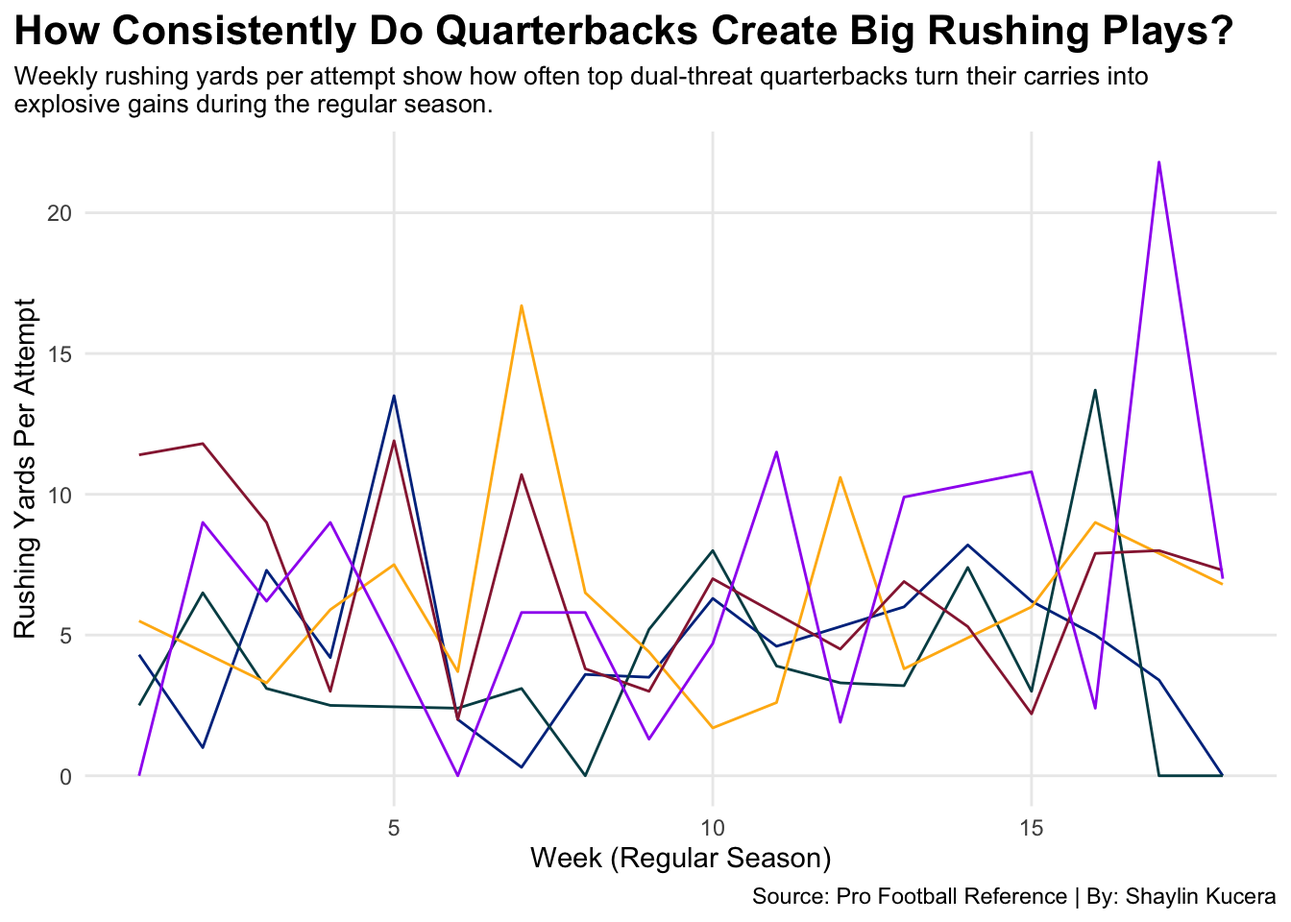
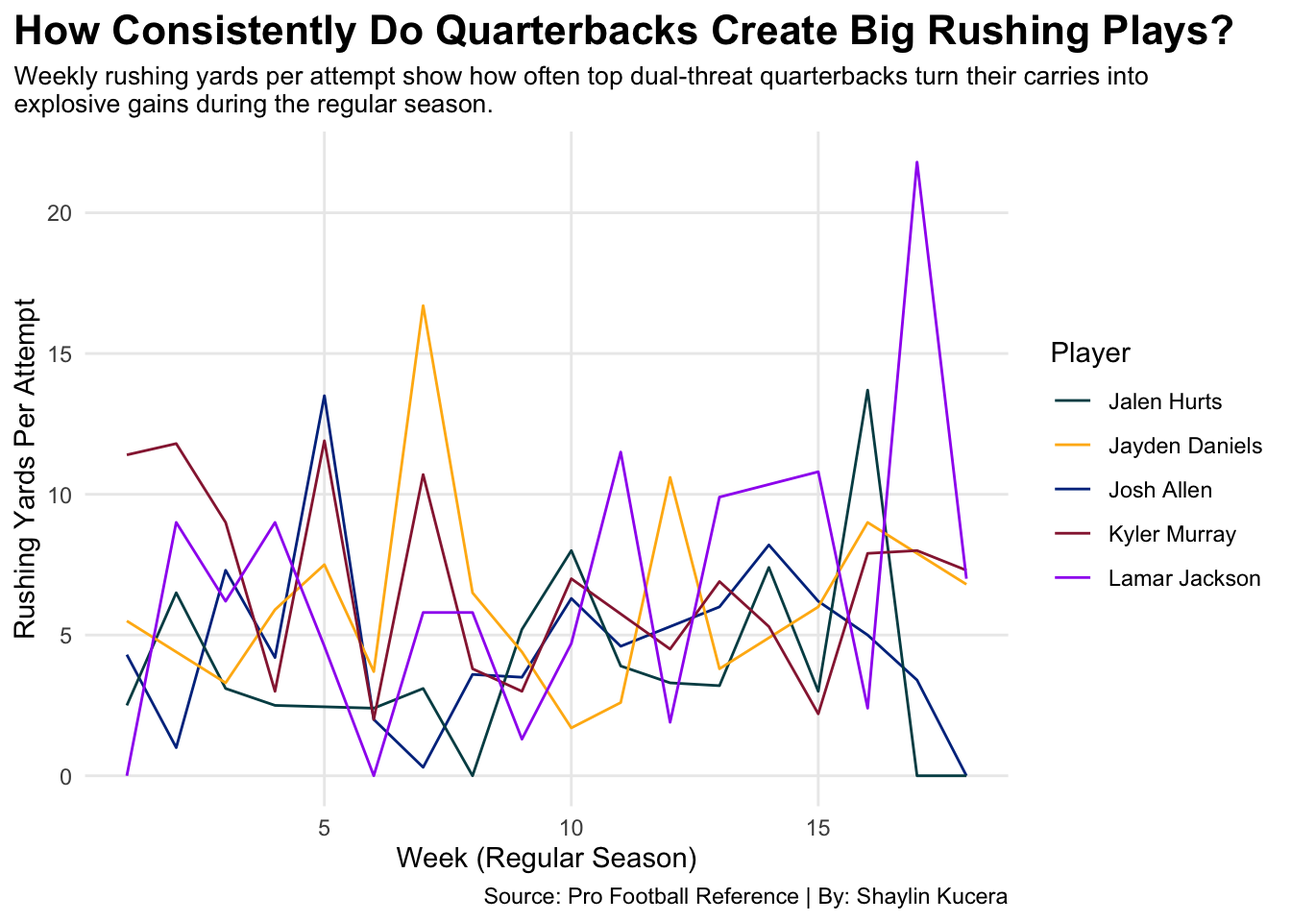
FinallyDone!!!

diff --git a/posts/quarterback-running/index.html b/posts/quarterback-running/index.html
@@ -195,8 +195,8 @@ pre > code.sourceCode > span > a:first-child::before { text-decoration: underlin
 
 
 
-<p>The quarterback position in the NFL has changed a lot over the past decade. It used to be all about pocket passers who stayed planted behind the line and made their reads without ever moving much. But now, more teams are relying on quarterbacks who can take off and run when the play breaks down, or even on purpose. Players like Lamar Jackson, Jalen Hurts, and Josh Allen have shown how dangerous a mobile quarterback can be, turning broken plays into first downs and adding another layer defenses have to worry about.</p>
-<p>But that leads to a bigger question: Does being able to run actually make a quarterback better? Or is it just something that looks exciting on Sundays but doesn’t translate to more scoring or more wins? The first thing that stands out is the clear gap between the NFL’s top quarterbacks and everyone else. Lamar Jackson and Jayden Daniels finished far ahead of the pack, showing how much their teams rely on their legs. Behind them, players like Kyler Murray and Josh Allen use mobility more situationally but still put strong rushing numbers. Meanwhile, more traditional passers like Mahomes and Herbert are much lower on the list. Overall, you can see how running may impact the offense on the ground and have valuable the extra rushing threat can be.</p>
+<p>The quarterback role in the NFL has shifted a ton over the past decade. It’s not just about classic pocket passers anymore. Teams are leaning into quarterbacks who can actually move, guys who extend plays, escape pressure, and pick up yards when everything breaks down. Players like Lamar Jackson, Jalen Hurts, and Josh Allen have basically changed what people expect from the position. Defenses can’t just worry about the throw anymore; they have to account for the run game coming straight from the quarterback.</p>
+<p>The shift brings up a pretty big question: Does running actually make a quarterback better, or is it just something that looks cool on Sundays? When you look at today’s top quarterbacks, the difference in how much they rely on their legs is obvious. Some use rushing as a huge part of their game, while others only run when they absolutely have to. Then you’ve got the more traditional passers who barely take off at all. Seeing those differences makes it clear that mobility can change how an offense works. Whether it’s turning broken plays into first downs or just creating more things for a defense to worry about, the ability to run definitely adds something extra to the position.</p>
 <div class="cell">
 <details class="code-fold">
 <summary>Code</summary>
@@ -271,7 +271,8 @@ pre > code.sourceCode > span > a:first-child::before { text-decoration: underlin
 </div>
 </div>
 <p>Running quarterbacks change everything about how an offense works. When a QB can take off and actually be a threat on the ground, defenses have to account for way more than just the passing game. It opens up space, forces linebackers to hesitate, and turns broken plays into big gains.</p>
-<p>Over the last few seasons, we’ve seen more quarterbacks lean into that dual-threat role, not just scrambling, but being designed runners who can pick up first downs and finish drives. And the guys who run the most aren’t just padding stats. They’re creating real scoring opportunities and keeping defenses constantly off balance. Looking at the top rushing quarterbacks in the league, it’s clear that mobility isn’t just a bonus anymore; it’s becoming a real part of what makes an offense dangerous.</p>
+<p>Over the last few seasons, we’ve seen more quarterbacks lean into that dual-threat role, not just scrambling, but being designed runners who can pick up first downs and finish drives. And the guys who run the most aren’t just padding stats. They’re creating real scoring opportunities and keeping defenses constantly off balance. Looking at the top rushing quarterbacks in the league, it’s clear that mobility isn’t just a bonus anymore; it’s becoming a real part of what makes an offense dangerous.<br>
+</p>
 <div class="cell">
 <details class="code-fold">
 <summary>Code</summary>
@@ -284,27 +285,28 @@ pre > code.sourceCode > span > a:first-child::before { text-decoration: underlin
 <span id="cb2-7"><a href="#cb2-7" aria-hidden="true" tabindex="-1"></a>  )</span>
 <span id="cb2-8"><a href="#cb2-8" aria-hidden="true" tabindex="-1"></a></span>
 <span id="cb2-9"><a href="#cb2-9" aria-hidden="true" tabindex="-1"></a><span class="fu">ggplot</span>() <span class="sc">+</span> </span>
-<span id="cb2-10"><a href="#cb2-10" aria-hidden="true" tabindex="-1"></a>  <span class="fu">geom_line</span>(<span class="at">data=</span>JoshAllen, <span class="fu">aes</span>(<span class="at">x=</span>Week, <span class="at">y=</span><span class="st">`</span><span class="at">Y/A</span><span class="st">`</span>), <span class="at">color=</span><span class="st">"#00338D"</span>) <span class="sc">+</span></span>
-<span id="cb2-11"><a href="#cb2-11" aria-hidden="true" tabindex="-1"></a>  <span class="fu">geom_line</span>(<span class="at">data=</span>JalenHurts, <span class="fu">aes</span>(<span class="at">x=</span>Week, <span class="at">y=</span><span class="st">`</span><span class="at">Y/A</span><span class="st">`</span>), <span class="at">color=</span><span class="st">"#004C54"</span>) <span class="sc">+</span></span>
-<span id="cb2-12"><a href="#cb2-12" aria-hidden="true" tabindex="-1"></a>  <span class="fu">geom_line</span>(<span class="at">data=</span>JaydenDaniels, <span class="fu">aes</span>(<span class="at">x=</span>Week, <span class="at">y=</span><span class="st">`</span><span class="at">Y/A</span><span class="st">`</span>), <span class="at">color=</span><span class="st">"#FFB612"</span>) <span class="sc">+</span></span>
-<span id="cb2-13"><a href="#cb2-13" aria-hidden="true" tabindex="-1"></a>  <span class="fu">geom_line</span>(<span class="at">data=</span>KylerMurray, <span class="fu">aes</span>(<span class="at">x=</span>Week, <span class="at">y=</span><span class="st">`</span><span class="at">Y/A</span><span class="st">`</span>), <span class="at">color=</span><span class="st">"#97233F"</span>) <span class="sc">+</span></span>
-<span id="cb2-14"><a href="#cb2-14" aria-hidden="true" tabindex="-1"></a>  <span class="fu">geom_line</span>(<span class="at">data=</span>LamarJackson, <span class="fu">aes</span>(<span class="at">x=</span>Week, <span class="at">y=</span><span class="st">`</span><span class="at">Y/A</span><span class="st">`</span>), <span class="at">color=</span><span class="st">"purple"</span>) <span class="sc">+</span></span>
+<span id="cb2-10"><a href="#cb2-10" aria-hidden="true" tabindex="-1"></a>  <span class="fu">geom_line</span>(<span class="at">data=</span>JoshAllen, <span class="fu">aes</span>(<span class="at">x=</span>Week, <span class="at">y=</span><span class="st">`</span><span class="at">Y/A</span><span class="st">`</span>, <span class="at">color=</span>Player)) <span class="sc">+</span></span>
+<span id="cb2-11"><a href="#cb2-11" aria-hidden="true" tabindex="-1"></a>  <span class="fu">geom_line</span>(<span class="at">data=</span>JalenHurts, <span class="fu">aes</span>(<span class="at">x=</span>Week, <span class="at">y=</span><span class="st">`</span><span class="at">Y/A</span><span class="st">`</span>, <span class="at">color=</span>Player)) <span class="sc">+</span></span>
+<span id="cb2-12"><a href="#cb2-12" aria-hidden="true" tabindex="-1"></a>  <span class="fu">geom_line</span>(<span class="at">data=</span>JaydenDaniels, <span class="fu">aes</span>(<span class="at">x=</span>Week, <span class="at">y=</span><span class="st">`</span><span class="at">Y/A</span><span class="st">`</span>, <span class="at">color=</span>Player)) <span class="sc">+</span></span>
+<span id="cb2-13"><a href="#cb2-13" aria-hidden="true" tabindex="-1"></a>  <span class="fu">geom_line</span>(<span class="at">data=</span>KylerMurray, <span class="fu">aes</span>(<span class="at">x=</span>Week, <span class="at">y=</span><span class="st">`</span><span class="at">Y/A</span><span class="st">`</span>, <span class="at">color=</span>Player)) <span class="sc">+</span></span>
+<span id="cb2-14"><a href="#cb2-14" aria-hidden="true" tabindex="-1"></a>  <span class="fu">geom_line</span>(<span class="at">data=</span>LamarJackson, <span class="fu">aes</span>(<span class="at">x=</span>Week, <span class="at">y=</span><span class="st">`</span><span class="at">Y/A</span><span class="st">`</span>, <span class="at">color=</span>Player)) <span class="sc">+</span></span>
 <span id="cb2-15"><a href="#cb2-15" aria-hidden="true" tabindex="-1"></a>  <span class="fu">scale_y_continuous</span>(<span class="at">limits =</span> <span class="fu">c</span>(<span class="fl">0.0</span>,<span class="fl">21.8</span>)) <span class="sc">+</span></span>
-<span id="cb2-16"><a href="#cb2-16" aria-hidden="true" tabindex="-1"></a>  <span class="fu">theme_minimal</span>() <span class="sc">+</span></span>
-<span id="cb2-17"><a href="#cb2-17" aria-hidden="true" tabindex="-1"></a>  <span class="fu">labs</span>(</span>
-<span id="cb2-18"><a href="#cb2-18" aria-hidden="true" tabindex="-1"></a>    <span class="at">title=</span><span class="st">"How Consistently Do Quarterbacks Create Big Rushing Plays?"</span>,</span>
-<span id="cb2-19"><a href="#cb2-19" aria-hidden="true" tabindex="-1"></a>    <span class="at">subtitle=</span><span class="st">"Weekly rushing yards per attempt show how often top dual-threat quarterbacks turn their carries into </span><span class="sc">\n</span><span class="st">explosive gains during the regular season."</span>,</span>
-<span id="cb2-20"><a href="#cb2-20" aria-hidden="true" tabindex="-1"></a>    <span class="at">caption=</span><span class="st">"Source: Pro Football Reference | By: Shaylin Kucera"</span>,</span>
-<span id="cb2-21"><a href="#cb2-21" aria-hidden="true" tabindex="-1"></a>    <span class="at">x=</span><span class="st">"Week (Regular Season)"</span>,</span>
-<span id="cb2-22"><a href="#cb2-22" aria-hidden="true" tabindex="-1"></a>    <span class="at">y=</span><span class="st">"Rushing Yards Per Attempt"</span></span>
-<span id="cb2-23"><a href="#cb2-23" aria-hidden="true" tabindex="-1"></a>  ) <span class="sc">+</span></span>
-<span id="cb2-24"><a href="#cb2-24" aria-hidden="true" tabindex="-1"></a>  <span class="fu">theme</span>(</span>
-<span id="cb2-25"><a href="#cb2-25" aria-hidden="true" tabindex="-1"></a>    <span class="at">plot.title =</span> <span class="fu">element_text</span>(<span class="at">size =</span> <span class="dv">16</span>, <span class="at">face =</span> <span class="st">"bold"</span>),</span>
-<span id="cb2-26"><a href="#cb2-26" aria-hidden="true" tabindex="-1"></a>    <span class="at">axis.title =</span> <span class="fu">element_text</span>(<span class="at">size=</span><span class="dv">11</span>),</span>
-<span id="cb2-27"><a href="#cb2-27" aria-hidden="true" tabindex="-1"></a>    <span class="at">plot.subtitle =</span> <span class="fu">element_text</span>(<span class="at">size=</span><span class="dv">10</span>),</span>
-<span id="cb2-28"><a href="#cb2-28" aria-hidden="true" tabindex="-1"></a>    <span class="at">panel.grid.minor =</span> <span class="fu">element_blank</span>(),</span>
-<span id="cb2-29"><a href="#cb2-29" aria-hidden="true" tabindex="-1"></a>    <span class="at">plot.title.position =</span> <span class="st">"plot"</span></span>
-<span id="cb2-30"><a href="#cb2-30" aria-hidden="true" tabindex="-1"></a>    )</span></code></pre></div><button title="Copy to Clipboard" class="code-copy-button"><i class="bi"></i></button></div>
+<span id="cb2-16"><a href="#cb2-16" aria-hidden="true" tabindex="-1"></a>  <span class="fu">scale_color_manual</span>(<span class="at">values=</span><span class="fu">c</span>(<span class="st">"#004C54"</span>, <span class="st">"#FFB612"</span>, <span class="st">"#00338D"</span>,<span class="st">"#97233F"</span>,<span class="st">"purple"</span>)) <span class="sc">+</span></span>
+<span id="cb2-17"><a href="#cb2-17" aria-hidden="true" tabindex="-1"></a>  <span class="fu">theme_minimal</span>() <span class="sc">+</span></span>
+<span id="cb2-18"><a href="#cb2-18" aria-hidden="true" tabindex="-1"></a>  <span class="fu">labs</span>(</span>
+<span id="cb2-19"><a href="#cb2-19" aria-hidden="true" tabindex="-1"></a>    <span class="at">title=</span><span class="st">"How Consistently Do Quarterbacks Create Big Rushing Plays?"</span>,</span>
+<span id="cb2-20"><a href="#cb2-20" aria-hidden="true" tabindex="-1"></a>    <span class="at">subtitle=</span><span class="st">"Weekly rushing yards per attempt show how often top dual-threat quarterbacks turn their carries into </span><span class="sc">\n</span><span class="st">explosive gains during the regular season."</span>,</span>
+<span id="cb2-21"><a href="#cb2-21" aria-hidden="true" tabindex="-1"></a>    <span class="at">caption=</span><span class="st">"Source: Pro Football Reference | By: Shaylin Kucera"</span>,</span>
+<span id="cb2-22"><a href="#cb2-22" aria-hidden="true" tabindex="-1"></a>    <span class="at">x=</span><span class="st">"Week (Regular Season)"</span>,</span>
+<span id="cb2-23"><a href="#cb2-23" aria-hidden="true" tabindex="-1"></a>    <span class="at">y=</span><span class="st">"Rushing Yards Per Attempt"</span></span>
+<span id="cb2-24"><a href="#cb2-24" aria-hidden="true" tabindex="-1"></a>  ) <span class="sc">+</span></span>
+<span id="cb2-25"><a href="#cb2-25" aria-hidden="true" tabindex="-1"></a>  <span class="fu">theme</span>(</span>
+<span id="cb2-26"><a href="#cb2-26" aria-hidden="true" tabindex="-1"></a>    <span class="at">plot.title =</span> <span class="fu">element_text</span>(<span class="at">size =</span> <span class="dv">16</span>, <span class="at">face =</span> <span class="st">"bold"</span>),</span>
+<span id="cb2-27"><a href="#cb2-27" aria-hidden="true" tabindex="-1"></a>    <span class="at">axis.title =</span> <span class="fu">element_text</span>(<span class="at">size=</span><span class="dv">11</span>),</span>
+<span id="cb2-28"><a href="#cb2-28" aria-hidden="true" tabindex="-1"></a>    <span class="at">plot.subtitle =</span> <span class="fu">element_text</span>(<span class="at">size=</span><span class="dv">10</span>),</span>
+<span id="cb2-29"><a href="#cb2-29" aria-hidden="true" tabindex="-1"></a>    <span class="at">panel.grid.minor =</span> <span class="fu">element_blank</span>(),</span>
+<span id="cb2-30"><a href="#cb2-30" aria-hidden="true" tabindex="-1"></a>    <span class="at">plot.title.position =</span> <span class="st">"plot"</span></span>
+<span id="cb2-31"><a href="#cb2-31" aria-hidden="true" tabindex="-1"></a>    )</span></code></pre></div><button title="Copy to Clipboard" class="code-copy-button"><i class="bi"></i></button></div>
 </details>
 <div class="cell-output-display">
 <div>
@@ -324,35 +326,37 @@ pre > code.sourceCode > span > a:first-child::before { text-decoration: underlin
 <span id="cb3-3"><a href="#cb3-3" aria-hidden="true" tabindex="-1"></a>    G <span class="sc">&gt;=</span> <span class="dv">15</span></span>
 <span id="cb3-4"><a href="#cb3-4" aria-hidden="true" tabindex="-1"></a>  )</span>
 <span id="cb3-5"><a href="#cb3-5" aria-hidden="true" tabindex="-1"></a></span>
-<span id="cb3-6"><a href="#cb3-6" aria-hidden="true" tabindex="-1"></a><span class="fu">ggplot</span>() <span class="sc">+</span></span>
-<span id="cb3-7"><a href="#cb3-7" aria-hidden="true" tabindex="-1"></a>  <span class="fu">geom_point</span>(<span class="at">data=</span>qb24rush, <span class="fu">aes</span>(<span class="at">x=</span><span class="st">`</span><span class="at">Y/G</span><span class="st">`</span>, <span class="at">y=</span><span class="st">`</span><span class="at">A/G</span><span class="st">`</span>)) <span class="sc">+</span></span>
-<span id="cb3-8"><a href="#cb3-8" aria-hidden="true" tabindex="-1"></a>  <span class="fu">geom_point</span>(<span class="at">data =</span> <span class="fu">filter</span>(qb24rush, Player <span class="sc">==</span> <span class="st">"Lamar Jackson"</span>), </span>
-<span id="cb3-9"><a href="#cb3-9" aria-hidden="true" tabindex="-1"></a>                    <span class="fu">aes</span>(<span class="at">x =</span> <span class="st">`</span><span class="at">Y/G</span><span class="st">`</span>, <span class="at">y =</span> <span class="st">`</span><span class="at">A/G</span><span class="st">`</span>),</span>
-<span id="cb3-10"><a href="#cb3-10" aria-hidden="true" tabindex="-1"></a>                    <span class="at">color=</span><span class="st">"#241773"</span>, <span class="at">size=</span><span class="dv">5</span>) <span class="sc">+</span></span>
-<span id="cb3-11"><a href="#cb3-11" aria-hidden="true" tabindex="-1"></a>  <span class="fu">geom_point</span>(<span class="at">data =</span> <span class="fu">filter</span>(qb24rush, Player <span class="sc">==</span> <span class="st">"Jalen Hurts"</span>), </span>
-<span id="cb3-12"><a href="#cb3-12" aria-hidden="true" tabindex="-1"></a>                    <span class="fu">aes</span>(<span class="at">x =</span> <span class="st">`</span><span class="at">Y/G</span><span class="st">`</span>, <span class="at">y =</span> <span class="st">`</span><span class="at">A/G</span><span class="st">`</span>),</span>
-<span id="cb3-13"><a href="#cb3-13" aria-hidden="true" tabindex="-1"></a>                    <span class="at">color=</span><span class="st">"#004C54"</span>, <span class="at">size=</span><span class="dv">5</span>) <span class="sc">+</span></span>
-<span id="cb3-14"><a href="#cb3-14" aria-hidden="true" tabindex="-1"></a>  <span class="fu">geom_point</span>(<span class="at">data =</span> <span class="fu">filter</span>(qb24rush, Player <span class="sc">==</span> <span class="st">"Jayden Daniels"</span>), </span>
-<span id="cb3-15"><a href="#cb3-15" aria-hidden="true" tabindex="-1"></a>                    <span class="fu">aes</span>(<span class="at">x =</span> <span class="st">`</span><span class="at">Y/G</span><span class="st">`</span>, <span class="at">y =</span> <span class="st">`</span><span class="at">A/G</span><span class="st">`</span>),</span>
-<span id="cb3-16"><a href="#cb3-16" aria-hidden="true" tabindex="-1"></a>                    <span class="at">color=</span><span class="st">"#5A1414"</span>, <span class="at">size=</span><span class="dv">5</span>) <span class="sc">+</span></span>
-<span id="cb3-17"><a href="#cb3-17" aria-hidden="true" tabindex="-1"></a>  <span class="fu">geom_point</span>(<span class="at">data =</span> <span class="fu">filter</span>(qb24rush, Player <span class="sc">==</span> <span class="st">"Anthony Richardson"</span>), </span>
-<span id="cb3-18"><a href="#cb3-18" aria-hidden="true" tabindex="-1"></a>                    <span class="fu">aes</span>(<span class="at">x =</span> <span class="st">`</span><span class="at">Y/G</span><span class="st">`</span>, <span class="at">y =</span> <span class="st">`</span><span class="at">A/G</span><span class="st">`</span>),</span>
-<span id="cb3-19"><a href="#cb3-19" aria-hidden="true" tabindex="-1"></a>                    <span class="at">color=</span><span class="st">"#002C5F"</span>, <span class="at">size=</span><span class="dv">5</span>) <span class="sc">+</span></span>
-<span id="cb3-20"><a href="#cb3-20" aria-hidden="true" tabindex="-1"></a>  <span class="fu">geom_smooth</span>(<span class="at">data=</span>qb24rush, <span class="fu">aes</span>(<span class="at">x=</span><span class="st">`</span><span class="at">Y/G</span><span class="st">`</span>, <span class="at">y=</span><span class="st">`</span><span class="at">A/G</span><span class="st">`</span>), <span class="at">method=</span><span class="st">"lm"</span>) <span class="sc">+</span></span>
-<span id="cb3-21"><a href="#cb3-21" aria-hidden="true" tabindex="-1"></a>  <span class="fu">theme_minimal</span>() <span class="sc">+</span></span>
-<span id="cb3-22"><a href="#cb3-22" aria-hidden="true" tabindex="-1"></a>    <span class="fu">labs</span>(</span>
-<span id="cb3-23"><a href="#cb3-23" aria-hidden="true" tabindex="-1"></a>    <span class="at">title =</span> <span class="st">"Do Quarterbacks Who Run More... Actually Run More?"</span>,</span>
-<span id="cb3-24"><a href="#cb3-24" aria-hidden="true" tabindex="-1"></a>    <span class="at">subtitle=</span><span class="st">"A clear trend shows that quarterbacks who rack up rushing yards usually have more attempts per game. </span><span class="sc">\n</span><span class="st">Revealing which guys rely on their legs and which ones only run when they have to."</span>,</span>
-<span id="cb3-25"><a href="#cb3-25" aria-hidden="true" tabindex="-1"></a>    <span class="at">caption=</span><span class="st">"Source: Pro Football Reference | By: Shaylin Kucera"</span>,</span>
-<span id="cb3-26"><a href="#cb3-26" aria-hidden="true" tabindex="-1"></a>    <span class="at">x=</span> <span class="st">"Rushing Yards Per Game"</span>, </span>
-<span id="cb3-27"><a href="#cb3-27" aria-hidden="true" tabindex="-1"></a>    <span class="at">y=</span> <span class="st">"Attempts Per Game"</span>) <span class="sc">+</span></span>
-<span id="cb3-28"><a href="#cb3-28" aria-hidden="true" tabindex="-1"></a>  <span class="fu">theme</span>(</span>
-<span id="cb3-29"><a href="#cb3-29" aria-hidden="true" tabindex="-1"></a>    <span class="at">plot.title =</span> <span class="fu">element_text</span>(<span class="at">size =</span> <span class="dv">16</span>, <span class="at">face =</span> <span class="st">"bold"</span>),</span>
-<span id="cb3-30"><a href="#cb3-30" aria-hidden="true" tabindex="-1"></a>    <span class="at">axis.title =</span> <span class="fu">element_text</span>(<span class="at">size=</span><span class="dv">11</span>),</span>
-<span id="cb3-31"><a href="#cb3-31" aria-hidden="true" tabindex="-1"></a>    <span class="at">plot.subtitle =</span> <span class="fu">element_text</span>(<span class="at">size=</span><span class="dv">10</span>),</span>
-<span id="cb3-32"><a href="#cb3-32" aria-hidden="true" tabindex="-1"></a>    <span class="at">panel.grid.minor =</span> <span class="fu">element_blank</span>(),</span>
-<span id="cb3-33"><a href="#cb3-33" aria-hidden="true" tabindex="-1"></a>    <span class="at">plot.title.position =</span> <span class="st">"plot"</span></span>
-<span id="cb3-34"><a href="#cb3-34" aria-hidden="true" tabindex="-1"></a>    )</span></code></pre></div><button title="Copy to Clipboard" class="code-copy-button"><i class="bi"></i></button></div>
+<span id="cb3-6"><a href="#cb3-6" aria-hidden="true" tabindex="-1"></a>rushlabels <span class="ot">&lt;-</span> qb24rush <span class="sc">|&gt;</span> <span class="fu">filter</span>(Player <span class="sc">==</span> <span class="st">"Lamar Jackson"</span> <span class="sc">|</span> Player <span class="sc">==</span> <span class="st">"Jalen Hurts"</span> <span class="sc">|</span> Player <span class="sc">==</span> <span class="st">"Jayden Daniels"</span> <span class="sc">|</span> Player <span class="sc">==</span> <span class="st">"Anthony Richardson"</span>)</span>
+<span id="cb3-7"><a href="#cb3-7" aria-hidden="true" tabindex="-1"></a></span>
+<span id="cb3-8"><a href="#cb3-8" aria-hidden="true" tabindex="-1"></a><span class="fu">ggplot</span>() <span class="sc">+</span></span>
+<span id="cb3-9"><a href="#cb3-9" aria-hidden="true" tabindex="-1"></a>  <span class="fu">geom_point</span>(<span class="at">data=</span>qb24rush, <span class="fu">aes</span>(<span class="at">x=</span><span class="st">`</span><span class="at">Y/G</span><span class="st">`</span>, <span class="at">y=</span><span class="st">`</span><span class="at">A/G</span><span class="st">`</span>)) <span class="sc">+</span></span>
+<span id="cb3-10"><a href="#cb3-10" aria-hidden="true" tabindex="-1"></a>  <span class="fu">geom_point</span>(<span class="at">data =</span> <span class="fu">filter</span>(qb24rush, Player <span class="sc">==</span> <span class="st">"Lamar Jackson"</span>), </span>
+<span id="cb3-11"><a href="#cb3-11" aria-hidden="true" tabindex="-1"></a>                    <span class="fu">aes</span>(<span class="at">x =</span> <span class="st">`</span><span class="at">Y/G</span><span class="st">`</span>, <span class="at">y =</span> <span class="st">`</span><span class="at">A/G</span><span class="st">`</span>),</span>
+<span id="cb3-12"><a href="#cb3-12" aria-hidden="true" tabindex="-1"></a>                    <span class="at">color=</span><span class="st">"#241773"</span>, <span class="at">size=</span><span class="dv">3</span>) <span class="sc">+</span></span>
+<span id="cb3-13"><a href="#cb3-13" aria-hidden="true" tabindex="-1"></a>  <span class="fu">geom_point</span>(<span class="at">data =</span> <span class="fu">filter</span>(qb24rush, Player <span class="sc">==</span> <span class="st">"Jalen Hurts"</span>), </span>
+<span id="cb3-14"><a href="#cb3-14" aria-hidden="true" tabindex="-1"></a>                    <span class="fu">aes</span>(<span class="at">x =</span> <span class="st">`</span><span class="at">Y/G</span><span class="st">`</span>, <span class="at">y =</span> <span class="st">`</span><span class="at">A/G</span><span class="st">`</span>),</span>
+<span id="cb3-15"><a href="#cb3-15" aria-hidden="true" tabindex="-1"></a>                    <span class="at">color=</span><span class="st">"#004C54"</span>, <span class="at">size=</span><span class="dv">3</span>) <span class="sc">+</span></span>
+<span id="cb3-16"><a href="#cb3-16" aria-hidden="true" tabindex="-1"></a>  <span class="fu">geom_point</span>(<span class="at">data =</span> <span class="fu">filter</span>(qb24rush, Player <span class="sc">==</span> <span class="st">"Jayden Daniels"</span>), </span>
+<span id="cb3-17"><a href="#cb3-17" aria-hidden="true" tabindex="-1"></a>                    <span class="fu">aes</span>(<span class="at">x =</span> <span class="st">`</span><span class="at">Y/G</span><span class="st">`</span>, <span class="at">y =</span> <span class="st">`</span><span class="at">A/G</span><span class="st">`</span>),</span>
+<span id="cb3-18"><a href="#cb3-18" aria-hidden="true" tabindex="-1"></a>                    <span class="at">color=</span><span class="st">"#5A1414"</span>, <span class="at">size=</span><span class="dv">3</span>) <span class="sc">+</span></span>
+<span id="cb3-19"><a href="#cb3-19" aria-hidden="true" tabindex="-1"></a>  <span class="fu">geom_point</span>(<span class="at">data =</span> <span class="fu">filter</span>(qb24rush, Player <span class="sc">==</span> <span class="st">"Anthony Richardson"</span>), </span>
+<span id="cb3-20"><a href="#cb3-20" aria-hidden="true" tabindex="-1"></a>                    <span class="fu">aes</span>(<span class="at">x =</span> <span class="st">`</span><span class="at">Y/G</span><span class="st">`</span>, <span class="at">y =</span> <span class="st">`</span><span class="at">A/G</span><span class="st">`</span>),</span>
+<span id="cb3-21"><a href="#cb3-21" aria-hidden="true" tabindex="-1"></a>                    <span class="at">color=</span><span class="st">"#002C5F"</span>, <span class="at">size=</span><span class="dv">3</span>) <span class="sc">+</span></span>
+<span id="cb3-22"><a href="#cb3-22" aria-hidden="true" tabindex="-1"></a>  <span class="fu">geom_text_repel</span>(<span class="at">data=</span>rushlabels, <span class="fu">aes</span>(<span class="at">x=</span><span class="st">`</span><span class="at">Y/G</span><span class="st">`</span>, <span class="at">y=</span><span class="st">`</span><span class="at">A/G</span><span class="st">`</span>, <span class="at">label=</span>Player)) <span class="sc">+</span></span>
+<span id="cb3-23"><a href="#cb3-23" aria-hidden="true" tabindex="-1"></a>  <span class="fu">theme_minimal</span>() <span class="sc">+</span></span>
+<span id="cb3-24"><a href="#cb3-24" aria-hidden="true" tabindex="-1"></a>    <span class="fu">labs</span>(</span>
+<span id="cb3-25"><a href="#cb3-25" aria-hidden="true" tabindex="-1"></a>    <span class="at">title =</span> <span class="st">"Do Quarterbacks Who Run More... Actually Run More?"</span>,</span>
+<span id="cb3-26"><a href="#cb3-26" aria-hidden="true" tabindex="-1"></a>    <span class="at">subtitle=</span><span class="st">"A clear trend shows that quarterbacks who rack up rushing yards usually have more attempts per game. </span><span class="sc">\n</span><span class="st">Revealing which guys rely on their legs and which ones only run when they have to."</span>,</span>
+<span id="cb3-27"><a href="#cb3-27" aria-hidden="true" tabindex="-1"></a>    <span class="at">caption=</span><span class="st">"Source: Pro Football Reference | By: Shaylin Kucera"</span>,</span>
+<span id="cb3-28"><a href="#cb3-28" aria-hidden="true" tabindex="-1"></a>    <span class="at">x=</span> <span class="st">"Rushing Yards Per Game"</span>, </span>
+<span id="cb3-29"><a href="#cb3-29" aria-hidden="true" tabindex="-1"></a>    <span class="at">y=</span> <span class="st">"Attempts Per Game"</span>) <span class="sc">+</span></span>
+<span id="cb3-30"><a href="#cb3-30" aria-hidden="true" tabindex="-1"></a>  <span class="fu">theme</span>(</span>
+<span id="cb3-31"><a href="#cb3-31" aria-hidden="true" tabindex="-1"></a>    <span class="at">plot.title =</span> <span class="fu">element_text</span>(<span class="at">size =</span> <span class="dv">16</span>, <span class="at">face =</span> <span class="st">"bold"</span>),</span>
+<span id="cb3-32"><a href="#cb3-32" aria-hidden="true" tabindex="-1"></a>    <span class="at">axis.title =</span> <span class="fu">element_text</span>(<span class="at">size=</span><span class="dv">11</span>),</span>
+<span id="cb3-33"><a href="#cb3-33" aria-hidden="true" tabindex="-1"></a>    <span class="at">plot.subtitle =</span> <span class="fu">element_text</span>(<span class="at">size=</span><span class="dv">10</span>),</span>
+<span id="cb3-34"><a href="#cb3-34" aria-hidden="true" tabindex="-1"></a>    <span class="at">panel.grid.minor =</span> <span class="fu">element_blank</span>(),</span>
+<span id="cb3-35"><a href="#cb3-35" aria-hidden="true" tabindex="-1"></a>    <span class="at">plot.title.position =</span> <span class="st">"plot"</span></span>
+<span id="cb3-36"><a href="#cb3-36" aria-hidden="true" tabindex="-1"></a>    )</span></code></pre></div><button title="Copy to Clipboard" class="code-copy-button"><i class="bi"></i></button></div>
 </details>
 <div class="cell-output-display">
 <div>
@@ -382,21 +386,22 @@ pre > code.sourceCode > span > a:first-child::before { text-decoration: underlin
 <span id="cb4-14"><a href="#cb4-14" aria-hidden="true" tabindex="-1"></a></span>
 <span id="cb4-15"><a href="#cb4-15" aria-hidden="true" tabindex="-1"></a><span class="fu">ggplot</span>() <span class="sc">+</span> </span>
 <span id="cb4-16"><a href="#cb4-16" aria-hidden="true" tabindex="-1"></a>  <span class="fu">geom_bar</span>(<span class="at">data=</span>ChartTD, <span class="fu">aes</span>(<span class="at">x=</span>Player, <span class="at">weight=</span>Yards, <span class="at">fill=</span>Type), <span class="at">color=</span><span class="st">"black"</span>) <span class="sc">+</span></span>
-<span id="cb4-17"><a href="#cb4-17" aria-hidden="true" tabindex="-1"></a>  <span class="fu">coord_flip</span>() <span class="sc">+</span></span>
-<span id="cb4-18"><a href="#cb4-18" aria-hidden="true" tabindex="-1"></a>  <span class="fu">theme_minimal</span>() <span class="sc">+</span></span>
-<span id="cb4-19"><a href="#cb4-19" aria-hidden="true" tabindex="-1"></a>  <span class="fu">labs</span>(</span>
-<span id="cb4-20"><a href="#cb4-20" aria-hidden="true" tabindex="-1"></a>    <span class="at">title =</span> <span class="st">"The NFL's Most Dangerous Running QBs"</span>,</span>
-<span id="cb4-21"><a href="#cb4-21" aria-hidden="true" tabindex="-1"></a>    <span class="at">subtitle=</span><span class="st">"These five quarterbacks aren't just scrambling to get the ball somewhere. They're putting massive rushing </span><span class="sc">\n</span><span class="st">attempts and finding the end zone, making defenses pay when they take off with the ball."</span>,</span>
-<span id="cb4-22"><a href="#cb4-22" aria-hidden="true" tabindex="-1"></a>    <span class="at">caption=</span><span class="st">"Source: Pro Football Reference | By: Shaylin Kucera"</span>,</span>
-<span id="cb4-23"><a href="#cb4-23" aria-hidden="true" tabindex="-1"></a>    <span class="at">x=</span> <span class="st">""</span>, </span>
-<span id="cb4-24"><a href="#cb4-24" aria-hidden="true" tabindex="-1"></a>    <span class="at">y=</span> <span class="st">""</span>) <span class="sc">+</span></span>
-<span id="cb4-25"><a href="#cb4-25" aria-hidden="true" tabindex="-1"></a>  <span class="fu">theme</span>(</span>
-<span id="cb4-26"><a href="#cb4-26" aria-hidden="true" tabindex="-1"></a>    <span class="at">plot.title =</span> <span class="fu">element_text</span>(<span class="at">size =</span> <span class="dv">16</span>, <span class="at">face =</span> <span class="st">"bold"</span>),</span>
-<span id="cb4-27"><a href="#cb4-27" aria-hidden="true" tabindex="-1"></a>    <span class="at">axis.title =</span> <span class="fu">element_text</span>(<span class="at">size=</span><span class="dv">11</span>),</span>
-<span id="cb4-28"><a href="#cb4-28" aria-hidden="true" tabindex="-1"></a>    <span class="at">plot.subtitle =</span> <span class="fu">element_text</span>(<span class="at">size=</span><span class="dv">10</span>),</span>
-<span id="cb4-29"><a href="#cb4-29" aria-hidden="true" tabindex="-1"></a>    <span class="at">panel.grid.minor =</span> <span class="fu">element_blank</span>(),</span>
-<span id="cb4-30"><a href="#cb4-30" aria-hidden="true" tabindex="-1"></a>    <span class="at">plot.title.position =</span> <span class="st">"plot"</span></span>
-<span id="cb4-31"><a href="#cb4-31" aria-hidden="true" tabindex="-1"></a>    )</span></code></pre></div><button title="Copy to Clipboard" class="code-copy-button"><i class="bi"></i></button></div>
+<span id="cb4-17"><a href="#cb4-17" aria-hidden="true" tabindex="-1"></a>  <span class="fu">scale_fill_manual</span>(<span class="at">values =</span> <span class="fu">c</span>(<span class="st">"red"</span>,<span class="st">"grey"</span>)) <span class="sc">+</span></span>
+<span id="cb4-18"><a href="#cb4-18" aria-hidden="true" tabindex="-1"></a>  <span class="fu">coord_flip</span>() <span class="sc">+</span></span>
+<span id="cb4-19"><a href="#cb4-19" aria-hidden="true" tabindex="-1"></a>  <span class="fu">theme_minimal</span>() <span class="sc">+</span></span>
+<span id="cb4-20"><a href="#cb4-20" aria-hidden="true" tabindex="-1"></a>  <span class="fu">labs</span>(</span>
+<span id="cb4-21"><a href="#cb4-21" aria-hidden="true" tabindex="-1"></a>    <span class="at">title =</span> <span class="st">"The NFL's Most Dangerous Running QBs"</span>,</span>
+<span id="cb4-22"><a href="#cb4-22" aria-hidden="true" tabindex="-1"></a>    <span class="at">subtitle=</span><span class="st">"These five quarterbacks aren't just scrambling to get the ball somewhere. They're putting massive rushing </span><span class="sc">\n</span><span class="st">attempts and finding the end zone, making defenses pay when they take off with the ball."</span>,</span>
+<span id="cb4-23"><a href="#cb4-23" aria-hidden="true" tabindex="-1"></a>    <span class="at">caption=</span><span class="st">"Source: Pro Football Reference | By: Shaylin Kucera"</span>,</span>
+<span id="cb4-24"><a href="#cb4-24" aria-hidden="true" tabindex="-1"></a>    <span class="at">x=</span> <span class="st">""</span>, </span>
+<span id="cb4-25"><a href="#cb4-25" aria-hidden="true" tabindex="-1"></a>    <span class="at">y=</span> <span class="st">""</span>) <span class="sc">+</span></span>
+<span id="cb4-26"><a href="#cb4-26" aria-hidden="true" tabindex="-1"></a>  <span class="fu">theme</span>(</span>
+<span id="cb4-27"><a href="#cb4-27" aria-hidden="true" tabindex="-1"></a>    <span class="at">plot.title =</span> <span class="fu">element_text</span>(<span class="at">size =</span> <span class="dv">16</span>, <span class="at">face =</span> <span class="st">"bold"</span>),</span>
+<span id="cb4-28"><a href="#cb4-28" aria-hidden="true" tabindex="-1"></a>    <span class="at">axis.title =</span> <span class="fu">element_text</span>(<span class="at">size=</span><span class="dv">11</span>),</span>
+<span id="cb4-29"><a href="#cb4-29" aria-hidden="true" tabindex="-1"></a>    <span class="at">plot.subtitle =</span> <span class="fu">element_text</span>(<span class="at">size=</span><span class="dv">10</span>),</span>
+<span id="cb4-30"><a href="#cb4-30" aria-hidden="true" tabindex="-1"></a>    <span class="at">panel.grid.minor =</span> <span class="fu">element_blank</span>(),</span>
+<span id="cb4-31"><a href="#cb4-31" aria-hidden="true" tabindex="-1"></a>    <span class="at">plot.title.position =</span> <span class="st">"plot"</span></span>
+<span id="cb4-32"><a href="#cb4-32" aria-hidden="true" tabindex="-1"></a>    )</span></code></pre></div><button title="Copy to Clipboard" class="code-copy-button"><i class="bi"></i></button></div>
 </details>
 <div class="cell-output-display">
 <div>

diff --git a/index.html b/index.html
@@ -209,7 +209,7 @@ window.Quarto = {
 
 <div class="quarto-listing quarto-listing-container-default" id="listing-listing">
 <div class="list quarto-listing-default">
-<div class="quarto-post image-right" data-index="0" data-categories="Zm9vdGJhbGwlMkNuZmwlMkNxdWFydGVyYmFja3M=" data-listing-date-sort="1764914400000" data-listing-file-modified-sort="1764802568026" data-listing-date-modified-sort="NaN" data-listing-reading-time-sort="9" data-listing-word-count-sort="1689">
+<div class="quarto-post image-right" data-index="0" data-categories="Zm9vdGJhbGwlMkNuZmwlMkNxdWFydGVyYmFja3M=" data-listing-date-sort="1764914400000" data-listing-file-modified-sort="1764872692165" data-listing-date-modified-sort="NaN" data-listing-reading-time-sort="9" data-listing-word-count-sort="1706">
 <div class="thumbnail"><a href="./posts/quarterback-running/index.html" class="no-external">
 
 <img loading="lazy" src="./posts/quarterback-running/image.png" class="thumbnail-image">
@@ -229,7 +229,7 @@ window.Quarto = {
 
 </div>
 <div class="delink listing-description"><a href="./posts/quarterback-running/index.html" class="no-external">
-The quarterback position in the NFL has changed a lot over the past decade. It used to be all about pocket passers who stayed planted behind the line and made their reads…
+The quarterback role in the NFL has shifted a ton over the past decade. It’s not just about classic pocket passers anymore. Teams are leaning into quarterbacks who can…
 </a></div>
 </div>
 <div class="metadata">
